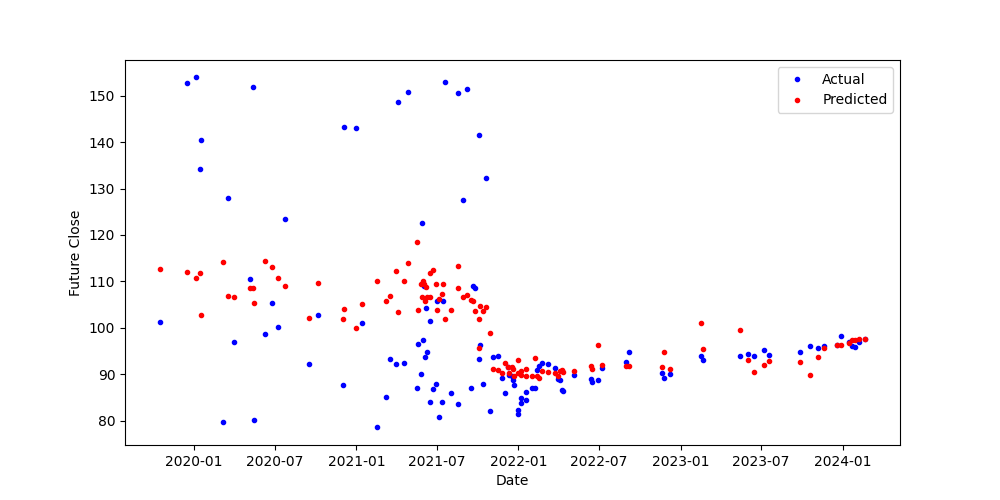
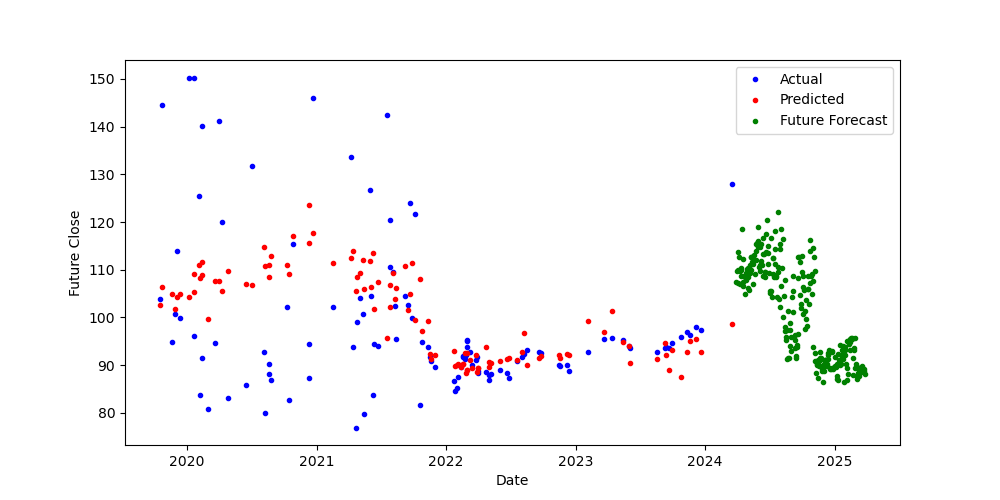
Add future forecast to knn classifier

diff --git a/KNN_analysis/training_model.py b/KNN_analysis/training_model.py
@@ -29,17 +29,33 @@ def main():
 
     X = balanced_data.drop(columns=['growth_rate', 'future_close'])
 
+    forecast_data = process_forecast_data.main()
+
+    forecast_data_no_date = forecast_data.reset_index(drop=True)
+    # print(forecast_data)
+    ss = StandardScaler()
+
+    forecast_data_no_date = ss.fit_transform(forecast_data_no_date)
+
+    # ------------------------------------------
+    # KNN Classifier for Predicting Stock Growth
+    # ------------------------------------------
+
     # Do not count dates for the prediction
-    # X = X.reset_index(drop=True)
-    #
-    # X = X.dropna()
-    #
-    # y = balanced_Data['growth_rate'].values
-    #
-    # X_train, X_valid, y_train, y_valid = train_test_split(X, y, test_size=0.2, stratify=y)
-    #
-    # y_pred = KNN_classifier(X_train, X_valid, y_train, y_valid)
-    #
+    X = X.reset_index(drop=True)
+
+    X = X.dropna()
+
+    y = balanced_Data['growth_rate'].values
+
+    X_train, X_valid, y_train, y_valid = train_test_split(X, y, test_size=0.2, stratify=y)
+
+    y_pred, knn_classifier = KNN_classifier(X_train, X_valid, y_train, y_valid)
+
+    future_forecast_data = knn_classifier.predict(forecast_data_no_date)
+
+    print(future_forecast_data)
+
     # conf_matrix = confusion_matrix(y_valid, y_pred)
     # print(conf_matrix)
     # precision = precision_score(y_valid, y_pred, pos_label="Yes")
@@ -54,68 +70,72 @@ def main():
     # plt.tight_layout()
     # plt.savefig('plots/confusion_matrix.png')
 
-    y_values = balanced_Data['future_close'].values
+    # ------------------------------------------------
+    # KNN Regressor for Predicting Future Stock Prices
+    # ------------------------------------------------
 
-    X_train, X_valid, y_train, y_valid = train_test_split(X, y_values, test_size=0.2, shuffle=True)
-
-    X_training = X_train.reset_index(drop=True)
-    X_validation = X_valid.reset_index(drop=True)
-
-    y_pred, knn_regressor = KNN_regression(X_training, X_validation, y_train, y_valid)
-
-    max = y_valid.max()
-    min = y_valid.min()
-
-    rmse = root_mean_squared_error(y_valid, y_pred) / (max - min)
-
-    print(f"The normalized root mean square error is: {rmse}")
-    plt.figure(figsize=(10,5))
-
-    df_plot = pd.DataFrame({
-        'actual': y_valid,
-        'predicted': y_pred
-    }, index=X_valid.index)
-
-    # Sort by index (e.g., date)
-    df_plot = df_plot.sort_index()
-
-    plt.plot(df_plot.index, df_plot['actual'], 'b.', label='Actual')
-    plt.plot(df_plot.index, df_plot['predicted'], 'r.', label='Predicted')
-    plt.xlabel('Date')
-
-    plt.ylabel('Future Close')
-    plt.legend(loc='best')
-    plt.savefig("plots/knn_validation_test.png")
-
-    forecast_data = process_forcast_data.main()
-
-    forecast_data_no_date = forecast_data.reset_index(drop=True)
-    # print(forecast_data)
-    ss = StandardScaler()
-
-    forecast_data_no_date = ss.fit_transform(forecast_data_no_date)
-    future_forcast = knn_regressor.predict(forecast_data_no_date)
-
-    print(future_forcast)
+    # # Forming Training and validation data
+    # y_values = balanced_Data['future_close'].values
+    # X_train, X_valid, y_train, y_valid = train_test_split(X, y_values, test_size=0.2, shuffle=True)
+    #
+    # # Remove dates from data
+    # X_training = X_train.reset_index(drop=True)
+    # X_validation = X_valid.reset_index(drop=True)
+    #
+    # y_pred, knn_regressor = KNN_regression(X_training, X_validation, y_train, y_valid)
+    #
+    # max = y_valid.max()
+    # min = y_valid.min()
+    #
+    # rmse = root_mean_squared_error(y_valid, y_pred) / (max - min)
+    #
+    # print(f"The normalized root mean square error is: {rmse}")
+    #
+    #
+    #
+    # future_forcast = knn_regressor.predict(forecast_data_no_date)
+    #
+    # plt.figure(figsize=(10,5))
+    #
+    # df_plot = pd.DataFrame({
+    #     'actual': y_valid,
+    #     'predicted': y_pred
+    # }, index=X_valid.index)
+    #
+    # df_plot2 = pd.DataFrame({
+    #          'predicted': future_forcast
+    #     }, index=forecast_data.index)
+    #
+    # df_plot = df_plot.sort_index()
+    #
+    # plt.plot(df_plot.index, df_plot['actual'], 'b.', label='Actual')
+    # plt.plot(df_plot.index, df_plot['predicted'], 'r.', label='Predicted')
+    # plt.plot(df_plot2.index, df_plot2['predicted'], 'g.', label='Future Forecast')
+    #
+    # plt.xlabel('Date')
+    #
+    # plt.ylabel('Future Close')
+    # plt.legend(loc='best')
+    # plt.savefig("plots/knn_validation_plus_forcast.png")
 
     # Use regressor to forecast future data from 2024-04-28 - 2025-03-26, the prediction at 2025-03-26 is the predicted
     # closing price by the end of 2025
 
-    plt.figure(figsize=(10,5))
-
-    df_plot = pd.DataFrame({
-        'predicted': future_forcast
-    }, index=forecast_data.index)
-
-    # Sort by index (e.g., date)
-    df_plot = df_plot.sort_index()
-
-    plt.plot(df_plot.index, df_plot['predicted'], 'r.', label='Predicted')
-    plt.xlabel('Date')
-
-    plt.ylabel('Future Close')
-    plt.legend(loc='best')
-    plt.savefig("plots/knn_prediction.png")
+    # plt.figure(figsize=(10,5))
+    #
+    # df_plot = pd.DataFrame({
+    #     'predicted': future_forcast
+    # }, index=forecast_data.index)
+    #
+    # # Sort by index (e.g., date)
+    # df_plot = df_plot.sort_index()
+    #
+    # plt.plot(df_plot.index, df_plot['predicted'], 'r.', label='Predicted')
+    # plt.xlabel('Date')
+    #
+    # plt.ylabel('Future Close')
+    # plt.legend(loc='best')
+    # plt.savefig("plots/knn_prediction.png")
 
 
 

diff --git a/KNN_analysis/data_fetching.py b/KNN_analysis/data_fetching.py
@@ -5,7 +5,7 @@ START_DATE = "2019-01-01"
 date_format = "%m/%d/%Y"
 
 end_date = dt.strptime('12/31/2025', date_format)
-current_day = dt.now()
+current_day = dt.strptime('04/7/2025', date_format)
 day_adjustment = end_date - current_day
 
 
@@ -21,38 +21,30 @@ def process_data(data):
 
     # Use the first row as column names
     data.columns = data.iloc[0]
-    # Drop that row
+
     data = data.iloc[1:].reset_index(drop=True)
 
-    # Rename the 'Price' column to 'Date'
     if 'Price' in data.columns:
         data.rename(columns={'Price': 'Date'}, inplace=True)
 
-    # Convert Date to datetime
     data['Date'] = pd.to_datetime(data['Date'], errors='coerce', format='%Y-%m-%d')
 
     # Set the Date column as the DataFrame index
     data.set_index('Date', inplace=True)
 
-    # Convert Close to numeric
     if 'Close' in data.columns:
         data['Close'] = pd.to_numeric(data['Close'], errors='coerce')
     else:
         raise KeyError("'Close' column not found in the dataset.")
 
-    # Calculate daily return
     data['daily_return'] = data['Close'].pct_change(1)
 
-    # Shift close price for future close
     data['future_close'] = data['Close'].shift(-day_adjustment.days)
 
-    # Filter rows starting from START_DATE
     data = data[data.index >= pd.to_datetime(START_DATE)]
 
-    # Drop rows where 'Close' or 'future_close' is missing
     data.dropna(inplace=True)
 
-    # Check for 10% growth
     data['growth_rate'] = data.apply(find_growth_rate, axis=1)
 
     return data

diff --git a/KNN_analysis/knn_classifier.py b/KNN_analysis/knn_classifier.py
@@ -33,4 +33,4 @@ def KNN_classifier(X_train, X_valid, y_train, y_valid):
     model = KNeighborsClassifier(**best_params).fit(X_train, y_train)
     y_pred = model.predict(X_valid)
 
-    return y_pred
+    return y_pred, model
